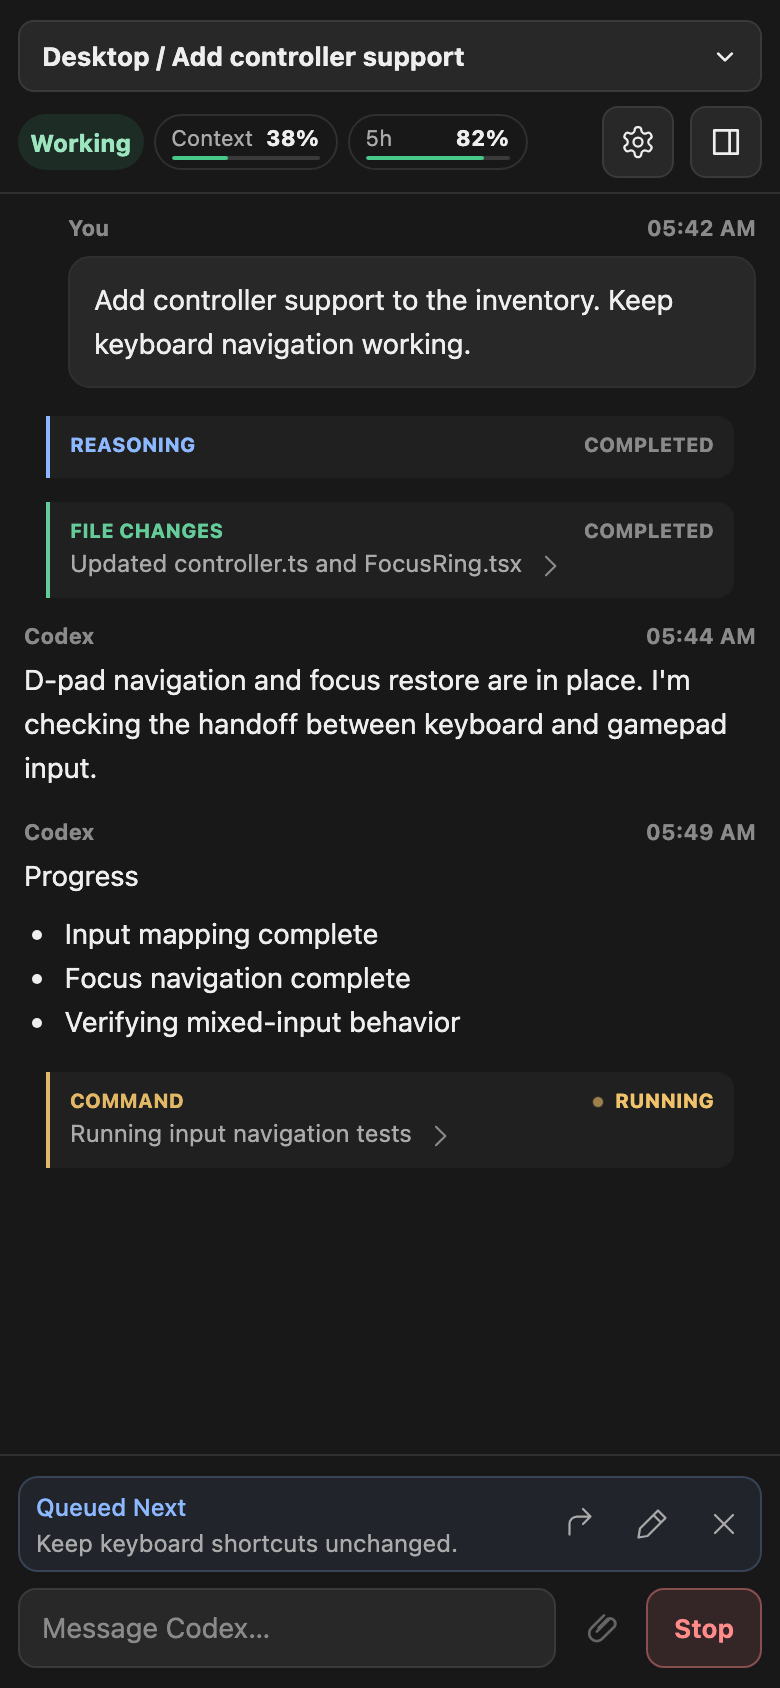
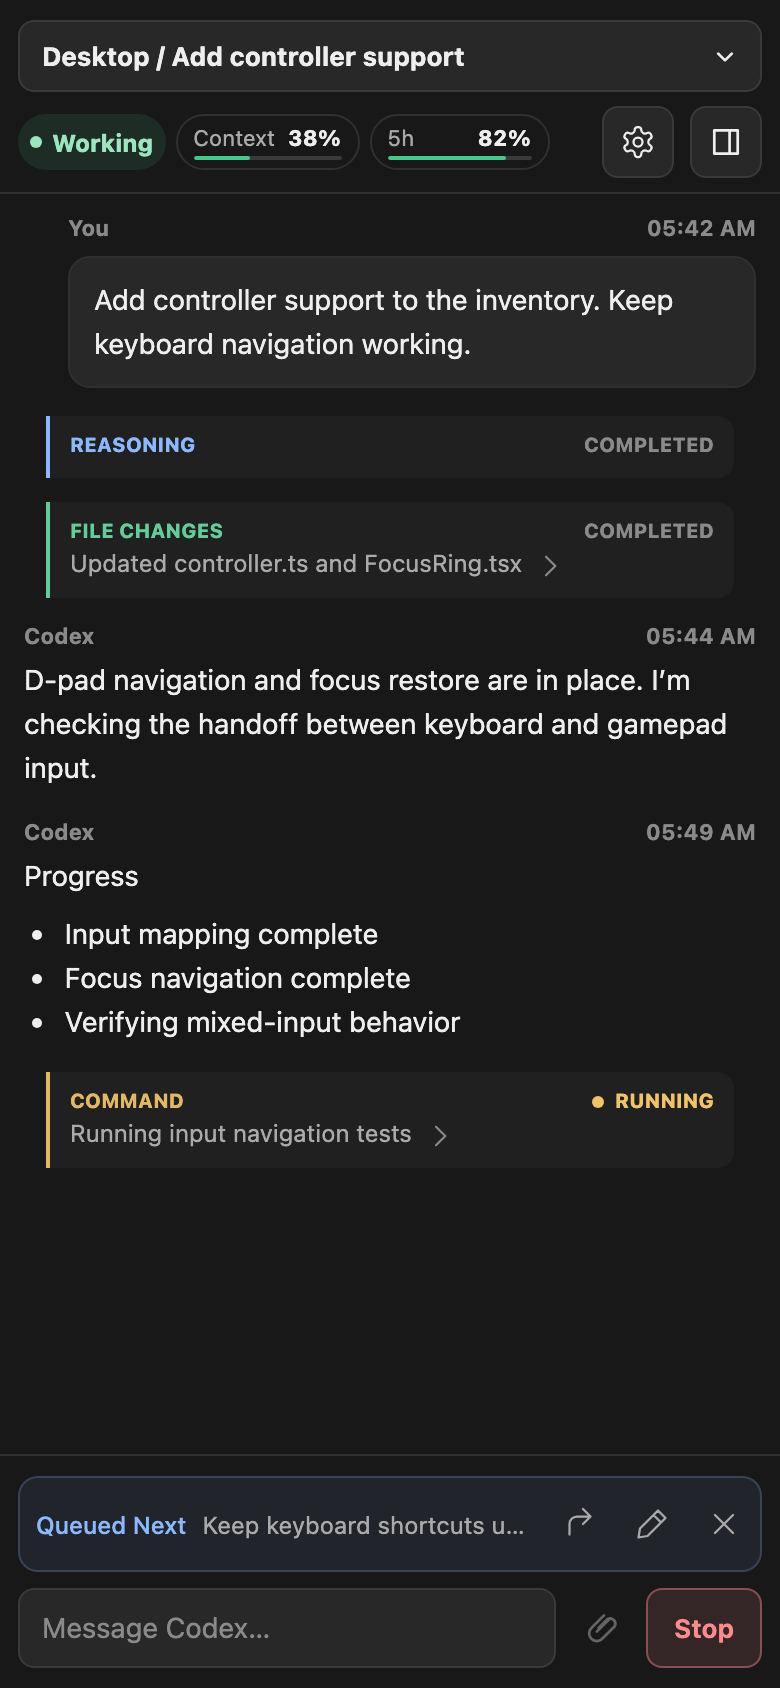
Bound history recovery and refresh the mobile screenshot

diff --git a/public/app.js b/public/app.js
@@ -335,6 +335,8 @@ let pendingSendNavigation = null;
 let historyEpoch = 0;
 let historyRequest = null;
 let historyRefreshPending = false;
+let historyGapRecovery = null;
+const HISTORY_REFRESH_PAGE_LIMIT = 20;
 // The transcript's own load state, separate from any live event: the empty-history message may only
 // follow a successful (possibly empty) history result.
 let historyPhase = "loading";
@@ -757,14 +759,19 @@ function platformLabel(value) {
   return first ? first.replace(/\b\w/g, (letter) => letter.toUpperCase()) : "";
 }
 
-function setHistoryStatus(message = "", retryCursor = undefined) {
+function setHistoryStatus(message = "", retryCursor = undefined, recovery = null) {
+  if (!message && historyGapRecovery) {
+    message = "History refresh incomplete. Retry to load more messages.";
+    retryCursor = historyGapRecovery.cursor;
+    recovery = historyGapRecovery;
+  }
   elements.historyStatus.textContent = message;
   elements.historyStatus.hidden = !message;
   if (retryCursor !== undefined) {
     const retry = document.createElement("button");
     retry.type = "button";
     retry.textContent = "Retry";
-    retry.addEventListener("click", () => { historyRecoveryAttempts = 0; void loadHistory(retryCursor); });
+    retry.addEventListener("click", () => { historyRecoveryAttempts = 0; void loadHistory(retryCursor, historyEpoch, false, recovery); });
     elements.historyStatus.append(" ", retry);
   }
 }
@@ -3332,6 +3339,7 @@ function resetConversationState() {
   historyPaginationLoaded = false;
   historyRequest = null;
   historyRefreshPending = false;
+  historyGapRecovery = null;
   historyPhase = "loading";
   historyNeedsRecovery = false;
   historyRecoveryAttempts = 0;
@@ -3402,20 +3410,22 @@ function refreshRecentHistory() {
   void loadHistory(null, historyEpoch);
 }
 
-async function loadHistory(cursor = null, epoch = historyEpoch, forceBottom = false) {
+async function loadHistory(cursor = null, epoch = historyEpoch, forceBottom = false, recovery = null) {
   const requestedMachineId = state?.machineId;
   const requestedThreadId = state?.thread?.id;
   if (!requestedMachineId || !requestedThreadId || historyRequest?.epoch === epoch) return;
   const token = { epoch, controller: new AbortController() };
   const liveBeforeRequest = new Map(liveMessages);
-  const loadedTurns = new Set(historyTurnIds);
-  const bridgeGap = !cursor && historyPaginationLoaded && loadedTurns.size > 0;
-  const recoveredTurns = new Set();
+  const olderPage = Boolean(cursor) && !recovery;
+  const loadedTurns = recovery?.loadedTurns || new Set(historyTurnIds);
+  const bridgeGap = Boolean(recovery) || (!cursor && historyPaginationLoaded && loadedTurns.size > 0);
+  const recoveredTurns = recovery?.recoveredTurns || new Set();
   const seenCursors = new Set();
+  let pagesRead = 0;
   let requestCursor = cursor;
   let automaticCursor = null;
   historyRequest = token;
-  if (!cursor) historyPhase = "loading";
+  if (!olderPage) historyPhase = "loading";
   setHistoryStatus();
   try {
     do {
@@ -3433,8 +3443,9 @@ async function loadHistory(cursor = null, epoch = historyEpoch, forceBottom = fa
         || requestedThreadId !== state?.thread?.id
         || page.machineId !== requestedMachineId
         || page.threadId !== requestedThreadId) return;
-      const preserveScroll = cursor ? { scrollHeight: transcriptScroller().scrollHeight, scrollTop: transcriptScroller().scrollTop } : null;
-      const restoreScrollTop = !cursor && !forceBottom ? transcriptScroller().scrollTop : null;
+      pagesRead += 1;
+      const preserveScroll = olderPage ? { scrollHeight: transcriptScroller().scrollHeight, scrollTop: transcriptScroller().scrollTop } : null;
+      const restoreScrollTop = !olderPage && !forceBottom ? transcriptScroller().scrollTop : null;
       const overlapsLoaded = (page.turns || []).some(turn => loadedTurns.has(turn.id));
       for (const turn of page.turns || []) {
         if (turn.id) recoveredTurns.add(turn.id);
@@ -3448,15 +3459,20 @@ async function loadHistory(cursor = null, epoch = historyEpoch, forceBottom = fa
         for (const activity of turn.activities || []) historyActivities.set(activity.id, activity);
       }
       // A recent-page refresh must not rewind the older-page boundary, including exhausted history.
-      if (cursor || !historyPaginationLoaded) nextCursor = page.nextCursor;
+      if (olderPage || !historyPaginationLoaded) nextCursor = page.nextCursor;
       if (!page.pendingMaterialization) historyPaginationLoaded = true;
       historyPhase = "ready";
-      if (!cursor) historyNeedsRecovery = Boolean(page.pendingMaterialization);
+      if (!olderPage) historyNeedsRecovery = Boolean(page.pendingMaterialization);
+      // Keep a capped refresh separate from older pagination. The existing Retry action continues
+      // from this point; no timer starts another batch, and partial turns are not overlap boundaries.
+      requestCursor = bridgeGap && !overlapsLoaded && !page.pendingMaterialization ? page.nextCursor : null;
+      const limited = requestCursor && pagesRead >= HISTORY_REFRESH_PAGE_LIMIT;
+      if (limited) historyGapRecovery = { cursor: requestCursor, loadedTurns, recoveredTurns };
+      else if (bridgeGap && !requestCursor && !page.pendingMaterialization) historyGapRecovery = null;
       setHistoryStatus();
       renderConversation({ preserveScroll, forceBottom, restoreScrollTop });
       void recoverUnresolvedSubmission();
-      // Keep the user's older boundary separate from the refreshed head's continuation.
-      requestCursor = bridgeGap && !overlapsLoaded && !page.pendingMaterialization ? page.nextCursor : null;
+      if (limited) return;
     } while (requestCursor);
     // Partial recovery must not become an overlap boundary: a later refresh must retry the gap.
     for (const id of recoveredTurns) historyTurnIds.add(id);
@@ -3467,7 +3483,7 @@ async function loadHistory(cursor = null, epoch = historyEpoch, forceBottom = fa
     // An earlier-page failure keeps the history already on screen; only the initial read can leave
     // the transcript without a resolved history state.
     if (!cursor) { historyPhase = "error"; historyNeedsRecovery = true; }
-    setHistoryStatus(historyErrorMessage(error), cursor);
+    setHistoryStatus(historyErrorMessage(error), cursor, recovery);
     if (!cursor) renderConversation();
   } finally {
     if (historyRequest === token) {
